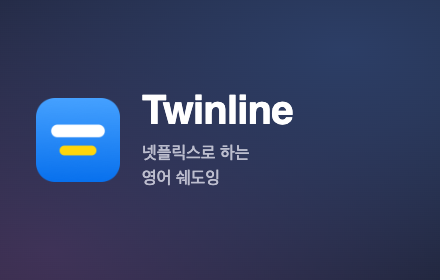
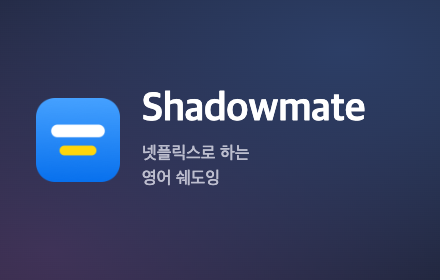
Rename to Shadowmate (1.0.1)
The name fits shadowing in any language, not only English. Store title,
help, popup, privacy policy, listing and promo tile follow; links point at
the repository's new name.

Changed region(s): [[0.325, 0.3143, 0.8273, 0.4571]]

diff --git a/help.html b/help.html
@@ -3,7 +3,7 @@
 <html lang="ko">
 <meta charset="utf-8">
 <meta name="viewport" content="width=device-width, initial-scale=1">
-<title>Twinline 사용법</title>
+<title>Shadowmate 사용법</title>
 <link rel="icon" href="icons/icon32.png">
 <style>
   :root {
@@ -56,7 +56,7 @@
 </style>
 <main>
   <img class="app-icon" src="icons/icon128.png" alt="" width="72" height="72">
-  <h1>Twinline 사용법</h1>
+  <h1>Shadowmate 사용법</h1>
   <p class="lead">넷플릭스에서 두 언어 자막을 같이 보며 문장 단위로 공부해요.</p>
 
   <h2>시작하기</h2>
@@ -64,7 +64,7 @@
     <ol>
       <li>넷플릭스에서 아무 작품이나 재생하면 화면 아래에 패널이 떠요. 위 줄이 <em>원어</em>(예: 영어), 아래 줄이 <em>번역</em>(예: 한국어)이에요.</li>
       <li>언어를 바꾸려면 패널 오른쪽의 설정 아이콘을 눌러 <em>원어 자막</em>과 <em>번역 자막</em>을 고르세요. 한 번 고르면 기억돼요.</li>
-      <li>툴바의 퍼즐 조각 메뉴에서 Twinline을 고정해 두면 저장함과 이 사용법을 바로 열 수 있어요.</li>
+      <li>툴바의 퍼즐 조각 메뉴에서 Shadowmate를 고정해 두면 저장함과 이 사용법을 바로 열 수 있어요.</li>
     </ol>
   </div>
 
@@ -125,7 +125,7 @@
 
   <h2>저장함과 내보내기</h2>
   <div class="card">
-    <div><b>저장함 열기</b><p>툴바의 Twinline 아이콘을 누르면 저장한 단어·문장이 최신순으로 보여요. 항목에 마우스를 올리면 나오는 ×로 지울 수 있어요.</p></div>
+    <div><b>저장함 열기</b><p>툴바의 Shadowmate 아이콘을 누르면 저장한 단어·문장이 최신순으로 보여요. 항목에 마우스를 올리면 나오는 ×로 지울 수 있어요.</p></div>
     <div><b>CSV</b><p>엑셀이나 구글 시트에서 열 수 있는 파일로 내려받아요.</p></div>
     <div><b>Anki</b><p>Anki에서 <em>파일 → 가져오기</em>로 받은 .txt 파일을 고르면 앞면(단어·문장), 뒷면(뜻·번역), 태그가 자동으로 잡혀요.</p></div>
   </div>
@@ -159,7 +159,7 @@
 
   <h2>문제가 생기면</h2>
   <div class="card">
-    <div><p class="q">패널이 안 떠요</p><p>넷플릭스 탭을 새로고침하세요. 확장을 업데이트했다면 <em>chrome://extensions</em>에서 Twinline의 새로고침 버튼을 먼저 누르세요.</p></div>
+    <div><p class="q">패널이 안 떠요</p><p>넷플릭스 탭을 새로고침하세요. 확장을 업데이트했다면 <em>chrome://extensions</em>에서 Shadowmate의 새로고침 버튼을 먼저 누르세요.</p></div>
     <div><p class="q">"○○ 자막 불러오는 중…"이 떠요</p><p>넷플릭스가 그 언어 자막을 아직 안 보내 준 거예요. 몇 초 기다리면 저절로 떠요.</p></div>
     <div><p class="q">"넷플릭스 자막 메뉴에서 ○○ 자막을 한 번 켜 주세요"가 떠요</p><p>넷플릭스 화면 아래 자막 메뉴에서 그 언어를 한 번 골라 주세요. 그러면 패널에 바로 떠요.</p></div>
     <div><p class="q">"이 작품에는 고른 언어의 자막이 없어요"가 떠요</p><p>설정의 원어 자막에서 그 작품에 있는 다른 언어를 고르세요.</p></div>

diff --git a/docs/privacy.html b/docs/privacy.html
@@ -3,7 +3,7 @@
 <html lang="ko">
 <meta charset="utf-8">
 <meta name="viewport" content="width=device-width, initial-scale=1">
-<title>Twinline 개인정보처리방침</title>
+<title>Shadowmate 개인정보처리방침</title>
 <style>
   :root { --bg: #f2f2f7; --card: #fff; --label: #000; --label-2: rgba(60, 60, 67, 0.62); --accent: #007aff; }
   @media (prefers-color-scheme: dark) { :root { --bg: #1c1c1e; --card: #2c2c2e; --label: #fff; --label-2: rgba(235, 235, 245, 0.62); --accent: #0a84ff; } }
@@ -19,12 +19,12 @@
   a { color: var(--accent); }
 </style>
 <main>
-  <h1>Twinline 개인정보처리방침</h1>
+  <h1>Shadowmate 개인정보처리방침</h1>
   <p class="date">시행일: 2026년 10월 24일</p>
 
   <section>
     <h2>한 줄 요약</h2>
-    <p>Twinline은 개인정보를 수집하지 않아요. 운영하는 서버도 없고, 분석 도구나 광고도 없어요.</p>
+    <p>Shadowmate는 개인정보를 수집하지 않아요. 운영하는 서버도 없고, 분석 도구나 광고도 없어요.</p>
   </section>
 
   <section>
@@ -64,7 +64,7 @@
 
   <section>
     <h2>문의</h2>
-    <p>궁금한 점은 <a href="https://github.com/circle-commit/twinline/issues">GitHub 이슈</a>로 남겨 주세요. 이 방침이 바뀌면 이 페이지에 시행일과 함께 알려 드려요.</p>
+    <p>궁금한 점은 <a href="https://github.com/circle-commit/shadowmate/issues">GitHub 이슈</a>로 남겨 주세요. 이 방침이 바뀌면 이 페이지에 시행일과 함께 알려 드려요.</p>
   </section>
 </main>
 </html>

diff --git a/saved.html b/saved.html
@@ -1,7 +1,7 @@
 <!doctype html>
 <!-- Toolbar popup: what was saved with ☆ on Netflix, with delete and CSV / Anki export. -->
 <meta charset="utf-8">
-<title>Twinline 저장함</title>
+<title>Shadowmate 저장함</title>
 <style>
   /* Apple-style grouped list: system colors for light and dark, system font, inset rounded card. */
   :root {

diff --git a/store/listing.md b/store/listing.md
@@ -4,13 +4,13 @@
 
 ## 기본 정보
 
-- **이름**: manifest의 `name`이 그대로 쓰여요. `Twinline – 넷플릭스 이중 자막으로 영어 공부`
+- **이름**: manifest의 `name`이 그대로 쓰여요. `Shadowmate – 넷플릭스 이중 자막 쉐도잉`
 - **요약(132자 이내)**: manifest의 `description`이 그대로 쓰여요.
   > 넷플릭스를 두 언어 자막으로 보며 영어 쉐도잉. 한 줄씩 듣기·반복·느리게 듣기, 자막 가리기, 단어 뜻, 내 발음 녹음 비교, Anki 내보내기.
 - **카테고리**: 교육
 - **언어**: 한국어
-- **개인정보처리방침 URL**: https://circle-commit.github.io/twinline/privacy.html
-- **지원 사이트**: https://github.com/circle-commit/twinline/issues
+- **개인정보처리방침 URL**: https://circle-commit.github.io/shadowmate/privacy.html
+- **지원 사이트**: https://github.com/circle-commit/shadowmate/issues
 
 ## 자세한 설명
 
@@ -44,7 +44,7 @@
 · 모든 단축키를 원하는 키로 바꿀 수 있어요
 · 패널 위치·크기를 자유롭게 바꿀 수 있어요
 
-넷플릭스 계정이 필요해요. Twinline은 넷플릭스와 관련 없는 개인 프로젝트예요.
+넷플릭스 계정이 필요해요. Shadowmate는 넷플릭스와 관련 없는 개인 프로젝트예요.
 
 ## 개인정보 보호 탭
 

diff --git a/README.md b/README.md
@@ -1,6 +1,6 @@
-# Twinline
+# Shadowmate
 
-(예전 이름: Netflix DualSub)
+(예전 이름: Shadowmate, Netflix DualSub)
 
 넷플릭스 영상 위에 두 언어 자막(예: 영어 + 한국어)을 함께 보여 주는 크롬 확장 프로그램.
 
@@ -99,7 +99,7 @@ node dev/store-shots.mjs
 올릴 zip(확장에 필요한 파일만):
 
 ```bash
-zip -X store/twinline-$(node -p "require('./manifest.json').version").zip manifest.json lib.js content.js content.css bridge.js saved.html saved.js help.html icons/*.png
+zip -X store/shadowmate-$(node -p "require('./manifest.json').version").zip manifest.json lib.js content.js content.css bridge.js saved.html saved.js help.html icons/*.png
 ```
 
 문제가 생기면 넷플릭스 탭의 개발자 도구 콘솔에서 `[dualsub]` 로그를 확인하세요.
